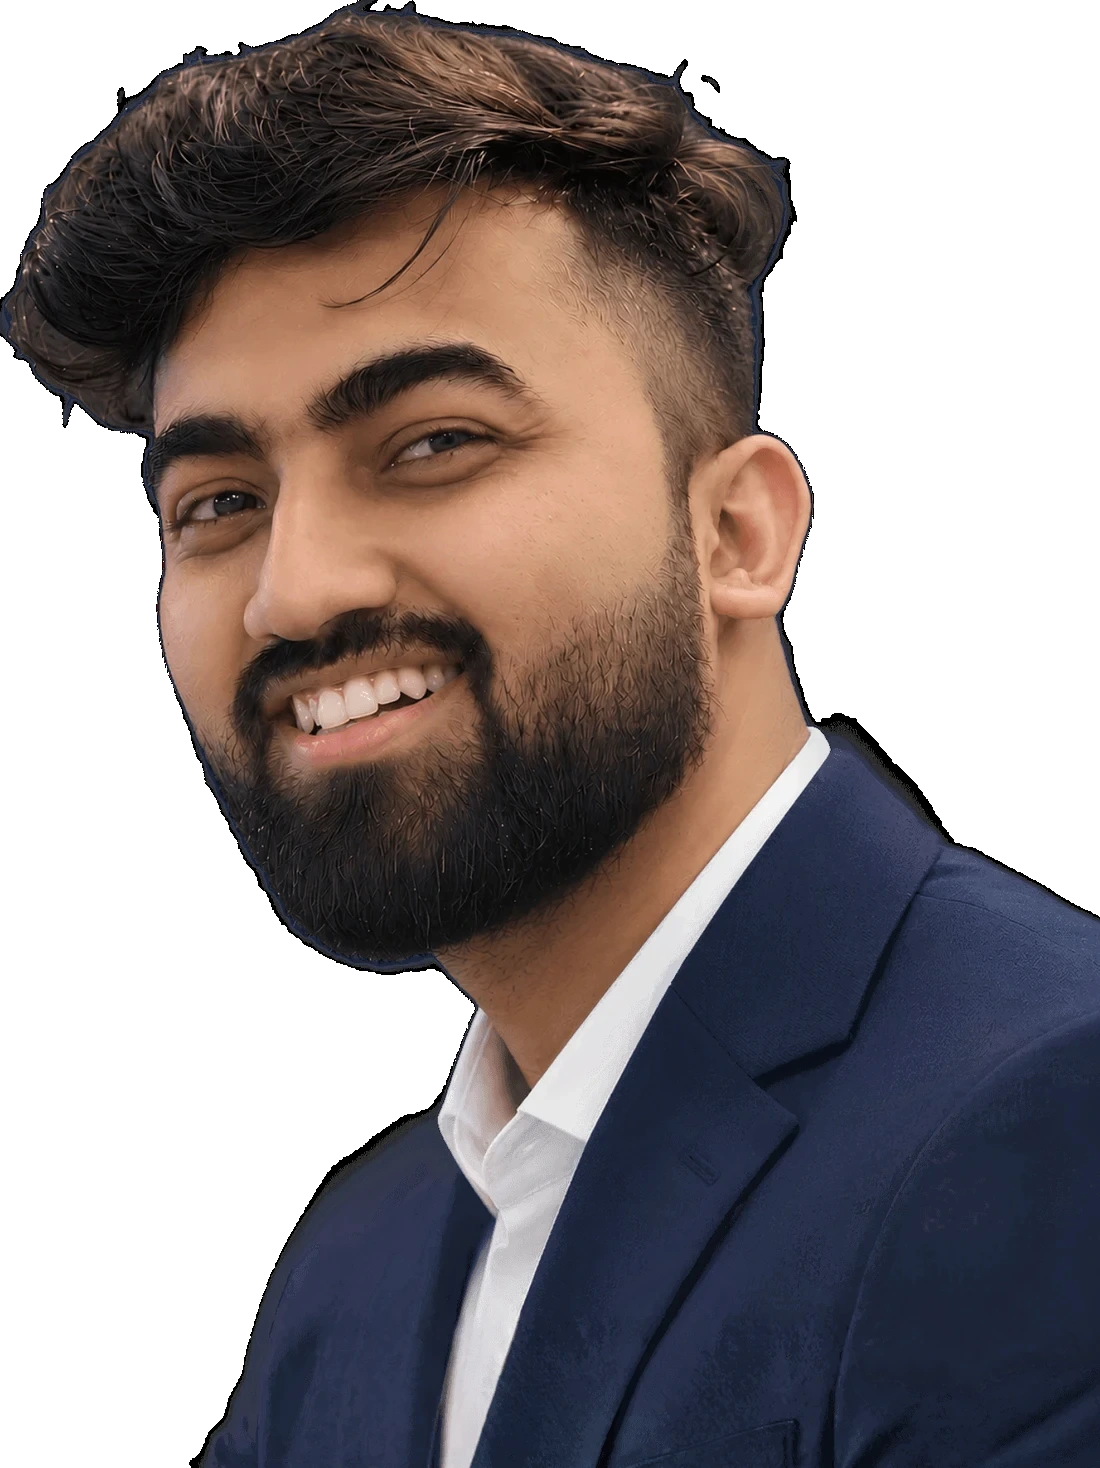
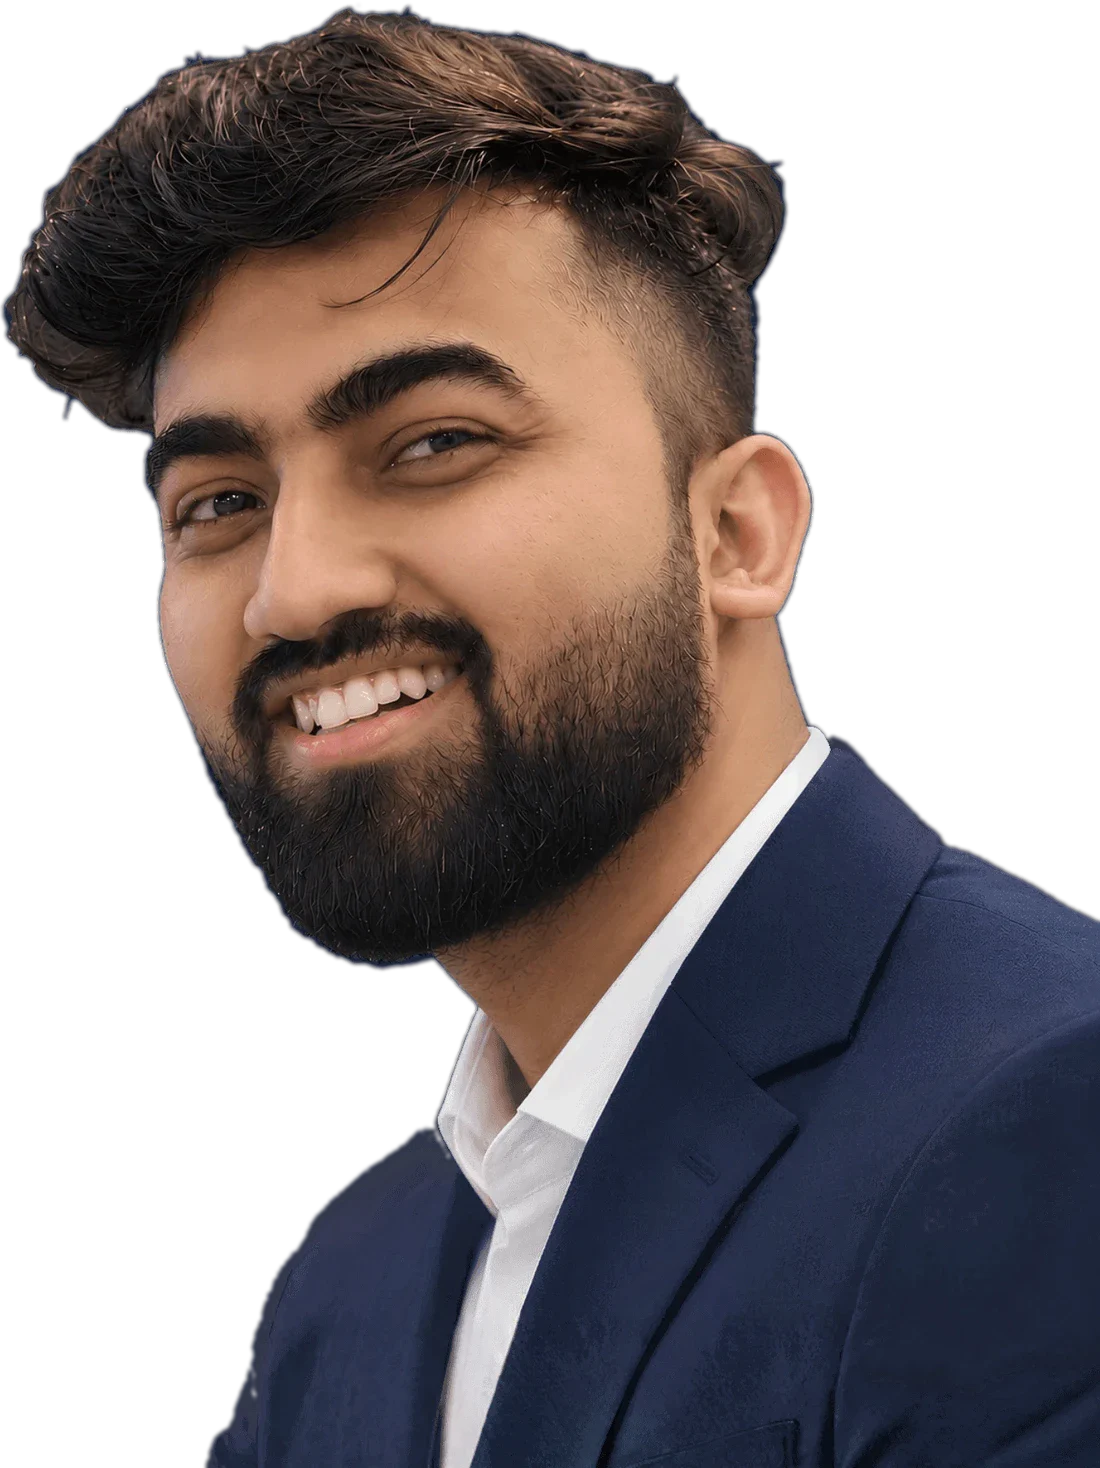
Enlarge and shift hero disc, clean portrait cutout
Rebuild the portrait cutout with a solid silhouette and a 1px
anti-aliased edge, removing the dark halo left by flattening alpha.
Grow the desktop disc 50% (560 -> 840) and centre it on the head, and
clip the portrait to the disc's curve below its centre line so the
photo's straight crop edges never show. The clip follows the disc's
scroll parallax via --py on the shared .hero__visual wrapper. Widen the
mobile portrait so its crop edge falls outside the disc, and correct
the image alt text.

diff --git a/assets/css/site.css b/assets/css/site.css
@@ -339,9 +339,9 @@ a[aria-current='true'],
 }
 .portrait img {
   position: absolute;
-  left: 3.6%;
+  left: 12%;
   bottom: 0;
-  width: 73.5%;
+  width: 88%;
   max-width: none;
 }
 
@@ -640,8 +640,14 @@ a[aria-current='true'],
     left: calc(830 * var(--u) - 0.632 * var(--pw));
     width: var(--pw);
     height: var(--ph);
-    -webkit-mask: none;
-    mask: none;
+    /* Free above the disc's centre line, clipped to its curve below, so the photo's crop edges never show. */
+    --mr: calc(var(--d) * var(--s) / 2);
+    --mx: calc((var(--cx) - 830) * var(--u) + 0.632 * var(--pw));
+    --my: calc(var(--cy) * var(--v) + var(--py, 0px) - 900 * var(--v) + var(--ph));
+    -webkit-mask: radial-gradient(circle var(--mr) at var(--mx) var(--my), #000 calc(var(--mr) - 1px), transparent var(--mr)),
+      linear-gradient(#000 0 0) top / 100% var(--my) no-repeat;
+    mask: radial-gradient(circle var(--mr) at var(--mx) var(--my), #000 calc(var(--mr) - 1px), transparent var(--mr)),
+      linear-gradient(#000 0 0) top / 100% var(--my) no-repeat;
   }
   .portrait img { position: static; width: 100%; }
   .hero__name { font-size: calc(40 * var(--t)); letter-spacing: 0.12em; line-height: 1; }

diff --git a/index.html b/index.html
@@ -124,13 +124,13 @@
                     <a href="#contact" data-nav="contact">Contact</a>
                 </nav>
 
-                <div class="hero__visual">
-                    <div class="disc" style="--d:560;--cx:780;--cy:390" aria-hidden="true"></div>
+                <div class="hero__visual" style="--d:840;--cx:660;--cy:420">
+                    <div class="disc" aria-hidden="true"></div>
                     <figure class="portrait">
                         <img src="assets/img/arpit-profile-1100.webp"
                             srcset="assets/img/arpit-profile-640.webp 640w, assets/img/arpit-profile-1100.webp 1100w"
                             sizes="(min-width: 1100px) 37vw, 72vw" width="1100" height="1468"
-                            alt="Arpit Singh Rajput in profile, wearing a black knit henley" fetchpriority="high" decoding="async">
+                            alt="Arpit Singh Rajput smiling, wearing a navy suit and white shirt" fetchpriority="high" decoding="async">
                     </figure>
                 </div>
 
